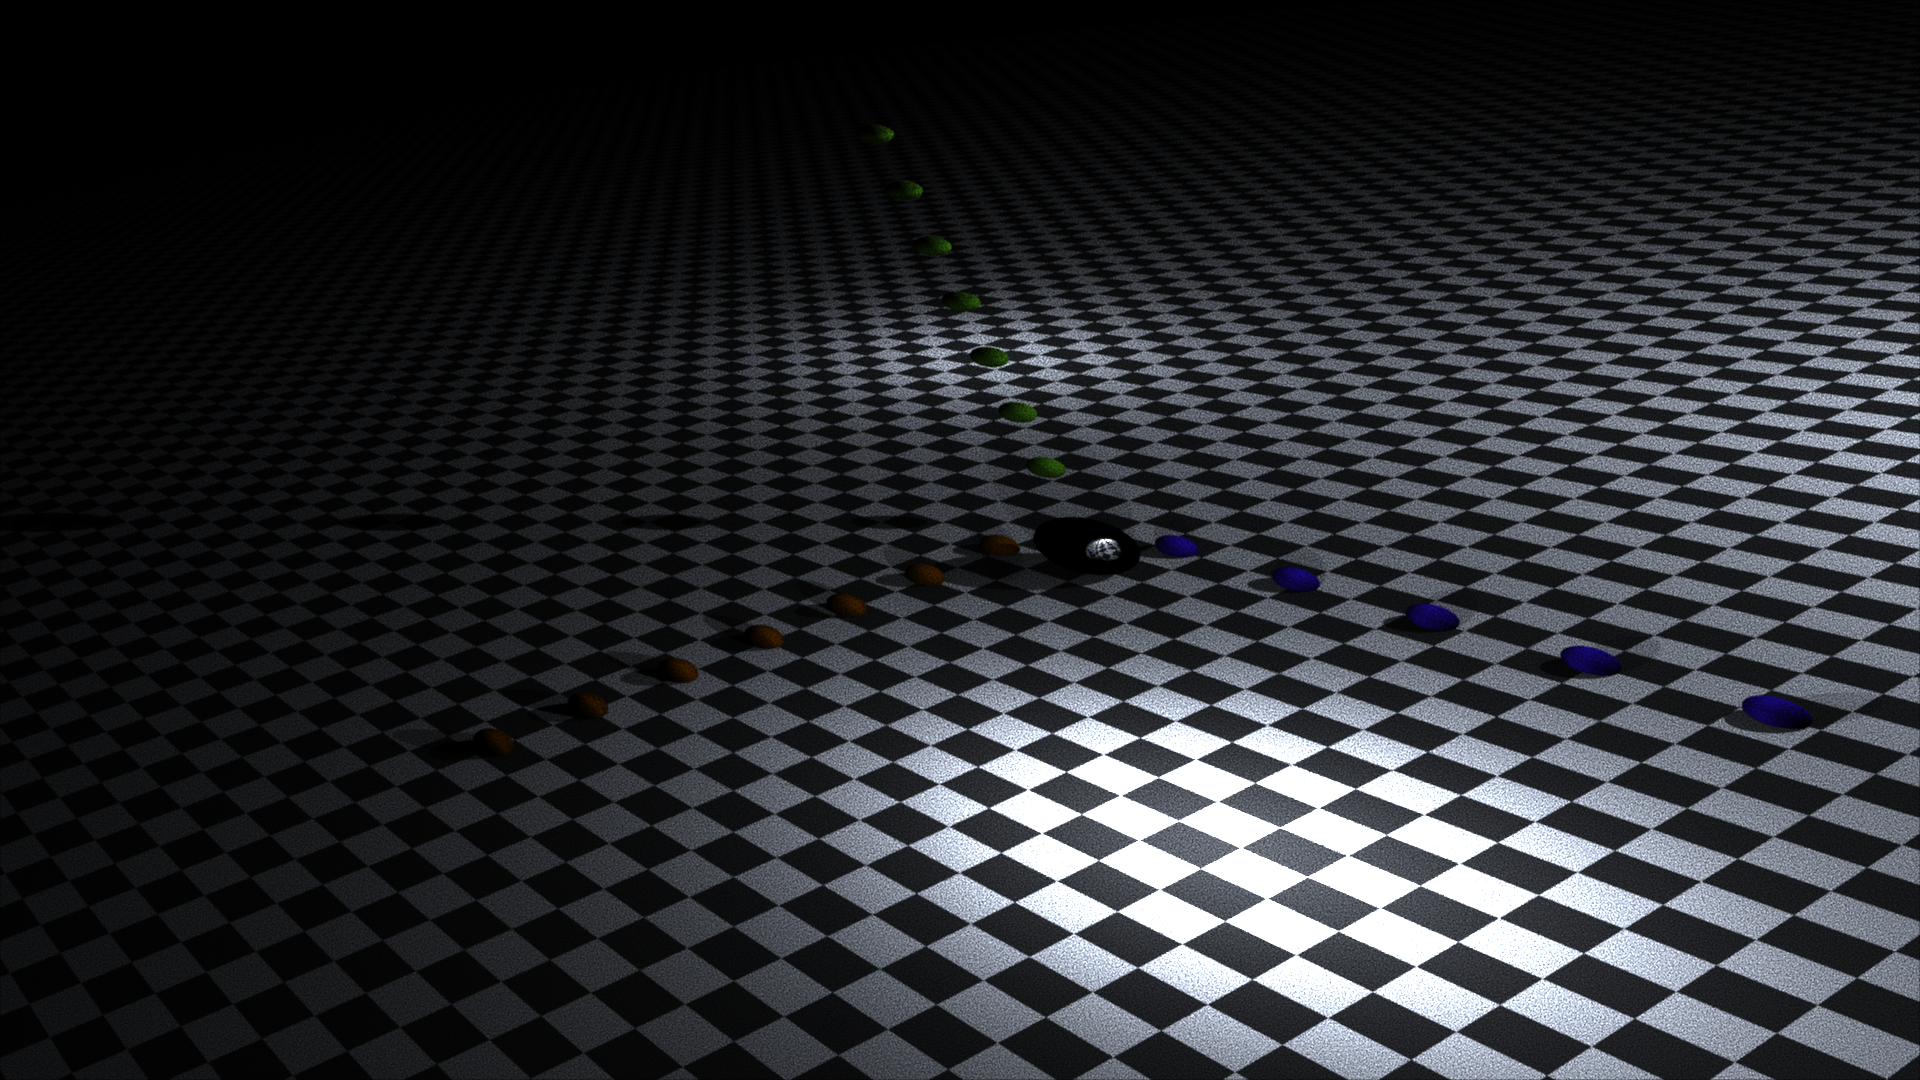
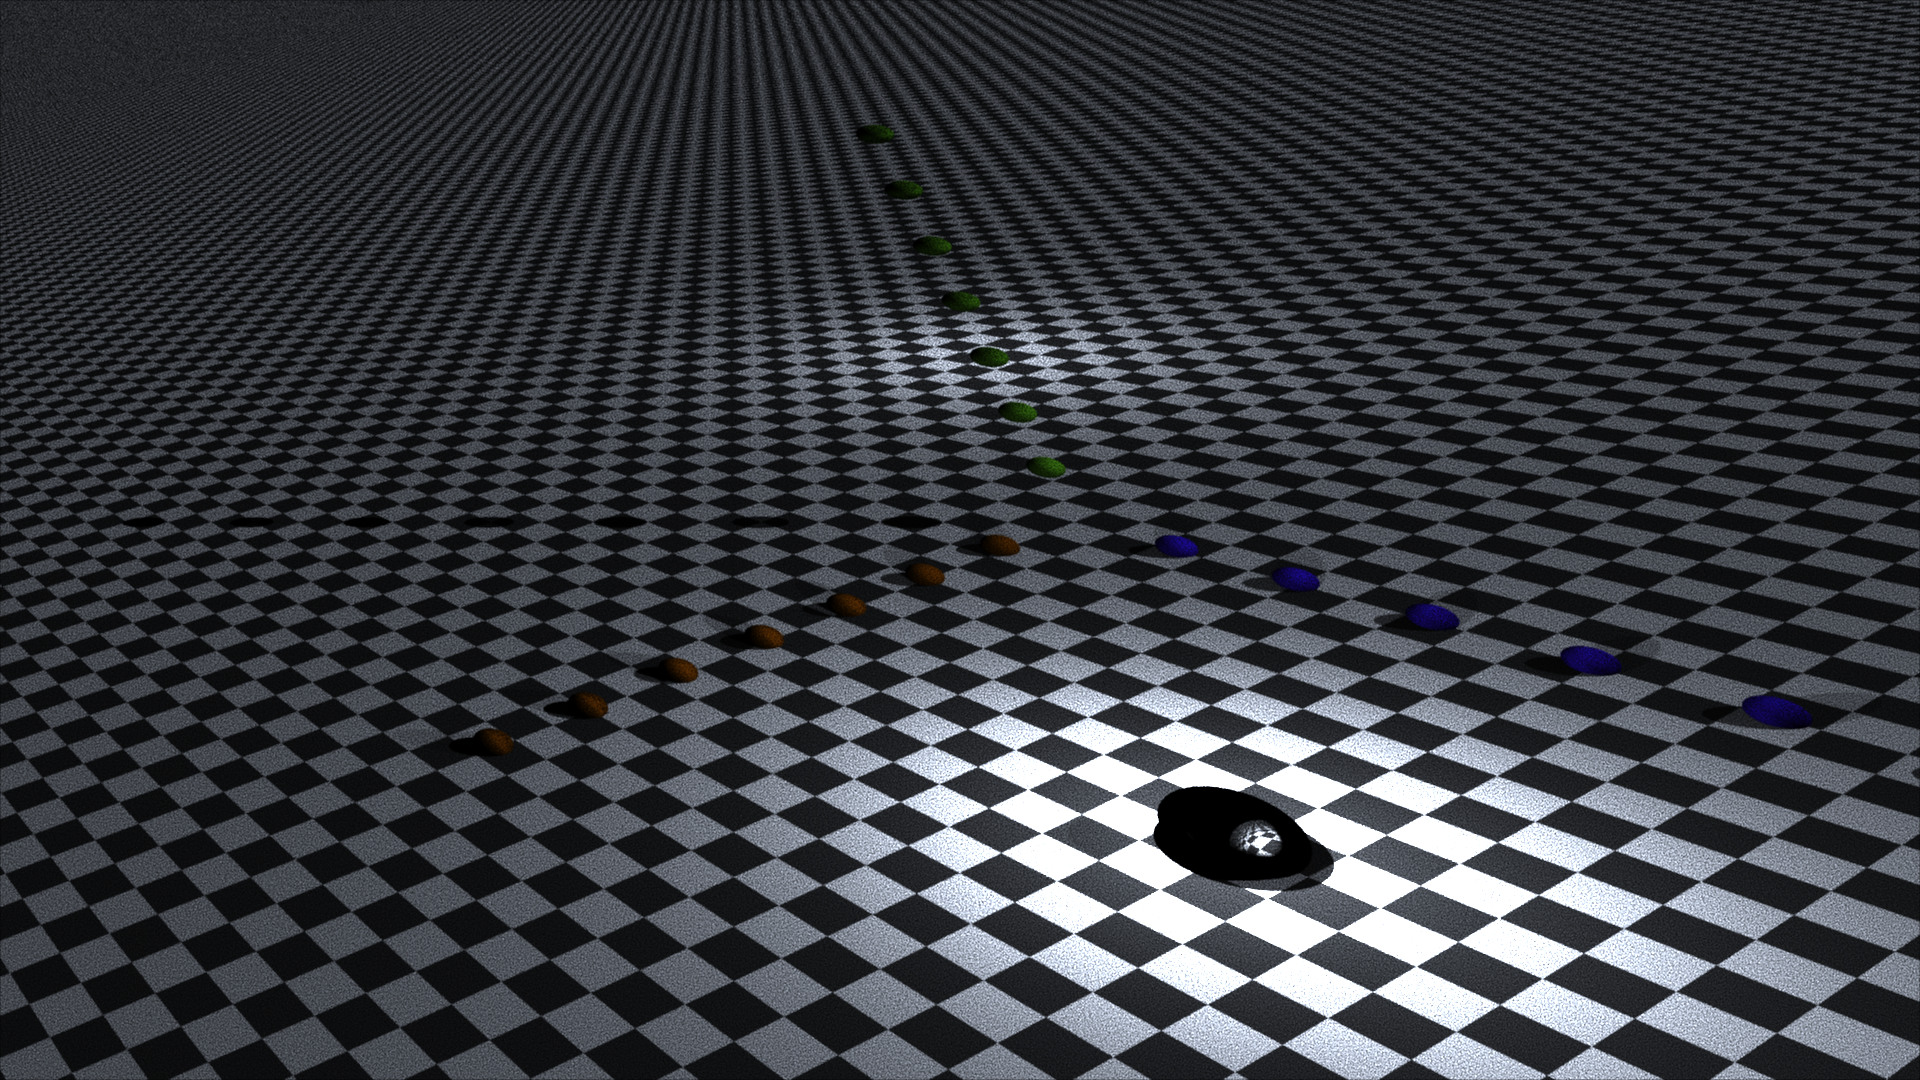
add distant light

diff --git a/pkg/pbrt/interaction.go b/pkg/pbrt/interaction.go
@@ -17,16 +17,17 @@ type Interaction interface {
 	GetTime() float64
 	GetNormal() *Normal3f
 	//GetMedium(*Vector3f) *Medium
+	GetMediumAccessor() *MediumAccessor
 	SetMediumAccessor(accessor *MediumAccessor)
 }
 
 type interaction struct {
 	Point          *Point3f
 	PointError     *Vector3f
-	time           float64
+	Time           float64
 	Wo             *Vector3f
 	Normal         *Normal3f
-	mediumAccessor *MediumAccessor
+	MediumAccessor *MediumAccessor
 }
 
 func NewInteraction(p *Point3f, pError *Vector3f, n *Normal3f, wo *Vector3f, time float64, mediumAccessor *MediumAccessor) *interaction {
@@ -35,8 +36,8 @@ func NewInteraction(p *Point3f, pError *Vector3f, n *Normal3f, wo *Vector3f, tim
 		PointError:     pError,
 		Normal:         n,
 		Wo:             wo,
-		time:           time,
-		mediumAccessor: mediumAccessor,
+		Time:           time,
+		MediumAccessor: mediumAccessor,
 	}
 }
 
@@ -53,22 +54,26 @@ func (i *interaction) GetNormal() *Normal3f {
 }
 
 func (i *interaction) GetTime() float64 {
-	return i.time
+	return i.Time
+}
+
+func (i *interaction) GetMediumAccessor() *MediumAccessor {
+	return i.MediumAccessor
 }
 
 func (i *interaction) SetMediumAccessor(accessor *MediumAccessor) {
-	i.mediumAccessor = accessor
+	i.MediumAccessor = accessor
 }
 
 func (i *interaction) SpawnRay(direction *Vector3f) *Ray {
 	origin := OffsetRayOrigin(i.Point, i.PointError, i.Normal, direction)
-	return &Ray{origin, direction, math.Infinity, i.time, i.GetMedium(direction)}
+	return &Ray{origin, direction, math.Infinity, i.Time, i.GetMedium(direction)}
 }
 
 func (i *interaction) SpawnRayToPoint(p *Point3f) *Ray {
 	direction := p.Sub(i.Point)
 	origin := OffsetRayOrigin(i.Point, i.PointError, i.Normal, direction)
-	return &Ray{origin, direction, 1 - math.ShadowEpsilon, i.time, i.GetMedium(direction)}
+	return &Ray{origin, direction, 1 - math.ShadowEpsilon, i.Time, i.GetMedium(direction)}
 }
 
 func (i *interaction) SpawnRayToInteraction(to Interaction) *Ray {
@@ -79,7 +84,7 @@ func (i *interaction) SpawnRayToInteraction(to Interaction) *Ray {
 		Origin:    i.Point,
 		Direction: direction,
 		TMax:      1 - math.ShadowEpsilon,
-		Time:      i.time,
+		Time:      i.Time,
 		Medium:    i.GetMedium(direction),
 	}
 }
@@ -94,9 +99,9 @@ func (i *interaction) IsMediumInteraction() bool {
 
 func (i *interaction) GetMedium(w *Vector3f) Medium {
 	if w.Dot(i.Normal) > 0 {
-		return i.mediumAccessor.Outside
+		return i.MediumAccessor.Outside
 	}
-	return i.mediumAccessor.Inside
+	return i.MediumAccessor.Inside
 }
 
 func PhaseHG(cosTheta float64, g float64) float64 {
@@ -136,7 +141,7 @@ func NewSurfaceInteraction() *SurfaceInteraction {
 			Point:          new(Point3f),
 			Wo:             new(Vector3f),
 			Normal:         new(Normal3f),
-			mediumAccessor: nil,
+			MediumAccessor: nil,
 		},
 		uv:    new(Point2f),
 		dpdu:  new(Vector3f),
@@ -167,7 +172,7 @@ func NewSurfaceInteractionWith(p *Point3f, pError *Vector3f, uv *Point2f, wo *Ve
 		interaction: &interaction{
 			Point:      p,
 			PointError: pError,
-			time:       time,
+			Time:       time,
 			Wo:         wo,
 			Normal:     normal,
 		},

diff --git a/pkg/lights/distant.go b/pkg/lights/distant.go
@@ -1,0 +1,72 @@
+package lights
+
+import (
+	"github.com/ssttuu/go-pbrt/pkg/math"
+	"github.com/ssttuu/go-pbrt/pkg/pbrt"
+)
+
+type Distant struct {
+	flags          pbrt.LightFlag
+	samples        int32
+	MediumAccessor *pbrt.MediumAccessor
+
+	L           pbrt.Spectrum
+	wLight      *pbrt.Vector3f
+	worldCenter *pbrt.Point3f
+	worldRadius float64
+}
+
+func NewDistant(lightToWorld *pbrt.Transform, L pbrt.Spectrum, wLight *pbrt.Vector3f) pbrt.Light {
+	return &Distant{
+		flags:   pbrt.LightFlagDeltaDirection,
+		samples: 4,
+		L:       L,
+		wLight:  lightToWorld.TransformVector(wLight).Normalized(),
+	}
+}
+
+func (d *Distant) GetFlags() pbrt.LightFlag {
+	return d.flags
+}
+
+func (d *Distant) GetSamples() int32 {
+	return d.samples
+}
+
+func (d *Distant) Preprocess(s pbrt.Scene) {
+	d.worldCenter, d.worldRadius = s.WorldBound().BoundingSphere()
+}
+
+func (d *Distant) SampleLi(ref pbrt.Interaction, u *pbrt.Point2f) (s pbrt.Spectrum, wi *pbrt.Vector3f, pdf float64, vis *pbrt.VisibilityTester) {
+	pOutside := d.wLight.MulScalar(2 * d.worldRadius)
+	i := pbrt.NewInteraction(pOutside, new(pbrt.Vector3f), new(pbrt.Vector3f), new(pbrt.Vector3f), ref.GetTime(), d.MediumAccessor)
+	return d.L, d.wLight, 1, pbrt.NewVisibilityTester(ref, i)
+}
+
+func (d *Distant) Power() pbrt.Spectrum {
+	return d.L.MulScalar(math.Pi * d.worldRadius * d.worldRadius)
+}
+
+func (d *Distant) Le(r *pbrt.RayDifferential) pbrt.Spectrum {
+	return pbrt.Le(r)
+}
+
+func (d *Distant) PdfLi(ref pbrt.Interaction, wi *pbrt.Vector3f) float64 {
+	return 0
+}
+
+func (d *Distant) SampleLe(u1, u2 *pbrt.Point2f, time float64) (s pbrt.Spectrum, r *pbrt.Ray, nLight *pbrt.Normal3f, pdfPos, pdfDir float64) {
+	// choose point on disk oriented toward infinite light direction
+	v1, v2 := pbrt.CoordinateSystem(d.wLight)
+	cd := pbrt.ConcentricSampleDisk(u1)
+	pDisk := d.worldCenter.Add(v1.MulScalar(cd.X).Add(v2.MulScalar(cd.Y)).MulScalar(d.worldRadius))
+
+	// set ray origin and direction for infinite light ray
+	r = pbrt.NewRay(pDisk.Add(d.wLight.MulScalar(d.worldRadius)), d.wLight.MulScalar(-1), time)
+
+	return d.L, r, r.Direction, 1 / (math.Pi * d.worldRadius * d.worldRadius), 1
+}
+
+func (d *Distant) PdfLe(r *pbrt.Ray, nLight *pbrt.Normal3f) (pdfPos, pdfDir float64) {
+	return 1 / (math.Pi * d.worldRadius * d.worldRadius), 0
+}

diff --git a/internal/render/server.go b/internal/render/server.go
@@ -6,6 +6,7 @@ import (
 	"github.com/pkg/errors"
 	"github.com/ssttuu/go-pbrt/pkg/accelerator"
 	"github.com/ssttuu/go-pbrt/pkg/integrator"
+	"github.com/ssttuu/go-pbrt/pkg/lights"
 	"github.com/ssttuu/go-pbrt/pkg/materials"
 	"github.com/ssttuu/go-pbrt/pkg/math"
 	"github.com/ssttuu/go-pbrt/pkg/pbrt"
@@ -22,7 +23,7 @@ func RegisterServer(s *grpc.Server) error {
 	return nil
 }
 
-type server struct {}
+type server struct{}
 
 func (s *server) Render(ctx context.Context, req *render.RenderRequest) (*render.RenderResponse, error) {
 	var primitives []pbrt.Primitive
@@ -80,7 +81,7 @@ func (s *server) Render(ctx context.Context, req *render.RenderRequest) (*render
 
 	sigma := pbrt.NewConstantFloatTexture(0.0)
 	diskXform := pbrt.Translate(new(pbrt.Vector3f)).Mul(pbrt.RotateX(90))
-	disk := shapes.NewDisk(diskXform, 0.01, 500, 0, 360)
+	disk := shapes.NewDisk(diskXform, 0.01, 10000, 0, 360)
 	checkerboard := textures.NewCheckerboard2D(
 		pbrt.NewPlanarMapping2D(&pbrt.Vector3f{.2, 0, 0}, &pbrt.Vector3f{0, 0, .2}, 0, 0),
 		pbrt.NewConstantSpectrumTexture(pbrt.NewSpectrum(1.0)),
@@ -91,11 +92,11 @@ func (s *server) Render(ctx context.Context, req *render.RenderRequest) (*render
 
 	agg := accelerator.NewBVH(primitives, 2, accelerator.SplitSAH)
 
-	lights := []pbrt.Light{
-		pbrt.NewPointLight(
+	ls := []pbrt.Light{
+		lights.NewDistant(
 			pbrt.Translate(&pbrt.Vector3f{-100, 100, 100}),
-			nil,
-			pbrt.NewSpectrum(1200),
+			pbrt.NewSpectrum(0.05),
+			&pbrt.Vector3f{-1, 1, 1},
 		),
 		pbrt.NewPointLight(
 			pbrt.Translate(&pbrt.Vector3f{50, 20, 50}),
@@ -109,7 +110,7 @@ func (s *server) Render(ctx context.Context, req *render.RenderRequest) (*render
 		),
 	}
 
-	scene := pbrt.NewScene(agg, lights, []pbrt.Light{})
+	scene := pbrt.NewScene(agg, ls)
 
 	shutterOpen, shutterClose := 0.0, 1.0
 

diff --git a/pkg/pbrt/scene.go b/pkg/pbrt/scene.go
@@ -10,15 +10,29 @@ type Scene interface {
 	Light(index int) Light
 	Lights() []Light
 	InfiniteLights() []Light
+	WorldBound() *Bounds3
 }
 
-func NewScene(aggregate Aggregate, lights, infiniteLights []Light) Scene {
-	return &scene{
-		lights:         lights,
-		infiniteLights: infiniteLights,
-		aggregate:      aggregate,
-		worldBound:     aggregate.WorldBound(),
+func NewScene(aggregate Aggregate, lights []Light) Scene {
+	s := &scene{
+		lights:     lights,
+		aggregate:  aggregate,
+		worldBound: aggregate.WorldBound(),
 	}
+
+	s.worldBound = s.aggregate.WorldBound()
+
+	var infiniteLights []Light
+	for _, light := range lights {
+		light.Preprocess(s)
+		if light.GetFlags()&LightFlagInfinite > 0 {
+			infiniteLights = append(infiniteLights, light)
+		}
+	}
+
+	s.infiniteLights = infiniteLights
+
+	return s
 }
 
 type scene struct {
@@ -72,4 +86,8 @@ func (s *scene) Lights() []Light {
 
 func (s *scene) InfiniteLights() []Light {
 	return s.infiniteLights
+}
+
+func (s *scene) WorldBound() *Bounds3 {
+	return s.worldBound
 }

diff --git a/pkg/pbrt/light.go b/pkg/pbrt/light.go
@@ -22,7 +22,7 @@ func IsDeltaLight(flags LightFlag) bool {
 type Light interface {
 	GetFlags() LightFlag
 	GetSamples() int32
-	Preprocess()
+	Preprocess(s Scene)
 
 	SampleLi(ref Interaction, u *Point2f) (s Spectrum, wi *Vector3f, pdf float64, vis *VisibilityTester)
 	Power() Spectrum
@@ -68,7 +68,7 @@ func (l *PointLight) GetSamples() int32 {
 	return l.nSamples
 }
 
-func (l *PointLight) Preprocess() {
+func (l *PointLight) Preprocess(s Scene) {
 
 }
 

diff --git a/gen/geometry/xyz.go b/gen/geometry/xyz.go
@@ -3,8 +3,8 @@ package geometry
 
 import (
 	"fmt"
-	"math"
 	"github.com/cheekybits/genny/generic"
+	"math"
 )
 
 type GenericType generic.Type
@@ -284,7 +284,7 @@ func (xyz *XYZGenericType) Cross(other *XYZGenericType) *XYZGenericType {
 
 func (xyz *XYZGenericType) Normalize() {
 	nor2 := xyz.LengthSquared()
-	if (nor2 > 0) {
+	if nor2 > 0 {
 		invNor := GenericType(1) / GenericType(math.Sqrt(float64(nor2)))
 		xyz.X *= invNor
 		xyz.Y *= invNor

diff --git a/pkg/pbrt/camera.go b/pkg/pbrt/camera.go
@@ -290,8 +290,8 @@ func (c *PerspectiveCamera) SampleWi(ref Interaction, u *Point2f) (s Spectrum, w
 	lensIntr := &interaction{
 		Point:  pLensWorld,
 		Normal: c.cameraToWorld.TransformVectorAtTime(&Vector3f{0, 0, 1}, ref.GetTime()),
-		time:   ref.GetTime(),
-		//mediumAccessor: c.Medium,
+		Time:   ref.GetTime(),
+		//MediumAccessor: c.Medium,
 	}
 
 	// populate arguments and compute the importance value

diff --git a/pkg/pbrt/transform.go b/pkg/pbrt/transform.go
@@ -295,8 +295,8 @@ func (t *Transform) TransformSurfaceInteraction(si *SurfaceInteraction) *Surface
 
 	ret.Normal = t.TransformNormal(si.Normal).Normalized()
 	ret.Wo = t.TransformVector(si.Wo).Normalized()
-	ret.time = si.time
-	ret.mediumAccessor = si.mediumAccessor
+	ret.Time = si.Time
+	ret.MediumAccessor = si.MediumAccessor
 	ret.uv = si.uv
 	ret.shape = si.shape
 	ret.dpdu = t.TransformVector(ret.dpdu)

diff --git a/pkg/pbrt/primitive.go b/pkg/pbrt/primitive.go
@@ -52,9 +52,9 @@ func (p *GeometricPrimitive) Intersect(r *Ray, si *SurfaceInteraction) bool {
 	si.Primitive = p
 
 	if p.mediumAccessor.IsMediumTransition() {
-		si.mediumAccessor = p.mediumAccessor
+		si.MediumAccessor = p.mediumAccessor
 	} else {
-		si.mediumAccessor = &MediumAccessor{r.Medium, r.Medium}
+		si.MediumAccessor = &MediumAccessor{r.Medium, r.Medium}
 	}
 
 	return true

diff --git a/pkg/pbrt/bounds.go b/pkg/pbrt/bounds.go
@@ -102,6 +102,15 @@ type Bounds3 struct {
 	Max *Point3f
 }
 
+func (b *Bounds3) BoundingSphere() (center *Point3f, radius float64) {
+	center = b.Min.Add(b.Max).DivScalar(2.0)
+	radius = 0
+	if Inside(center, b) {
+		radius = center.Distance(b.Max)
+	}
+	return center, radius
+}
+
 func (b *Bounds3) Corner(corner int) *Point3f {
 	return &Point3f{
 		X: b.Index(corner & 1).X,

diff --git a/pkg/pbrt/geometry.go b/pkg/pbrt/geometry.go
@@ -114,3 +114,8 @@ func FaceForward(n1, n2 *Normal3f) *Normal3f {
 	}
 	return n1
 }
+
+func Inside(p *Point3f, b *Bounds3) bool {
+	return p.X >= b.Min.X && p.X <= b.Max.X && p.Y >= b.Min.Y &&
+		p.Y <= b.Max.Y && p.Z >= b.Min.Z && p.Z <= b.Max.Z
+}
